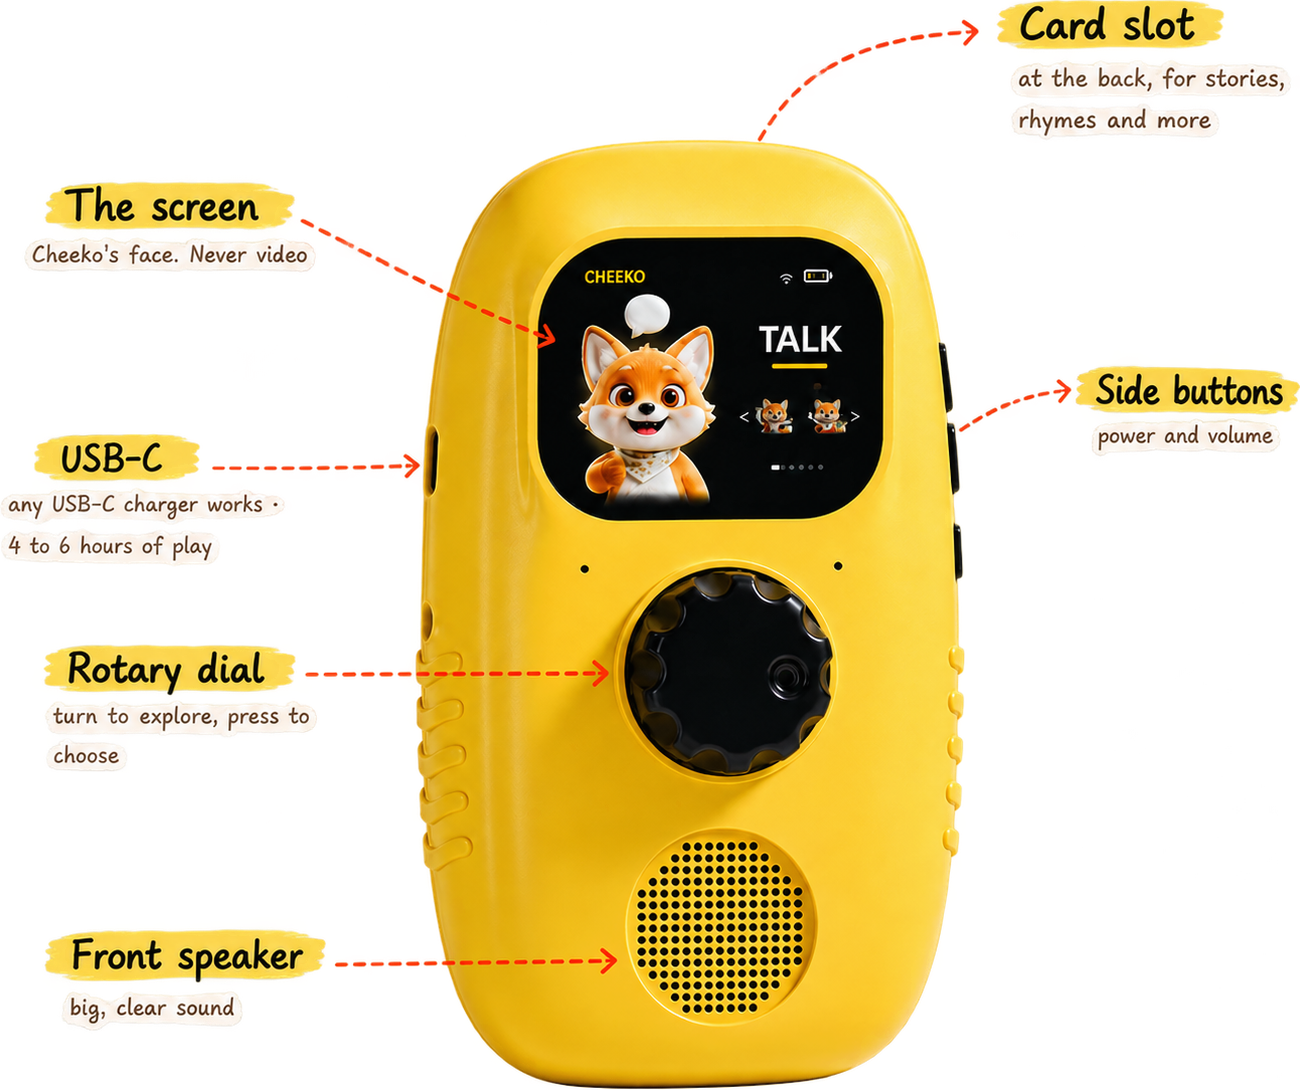
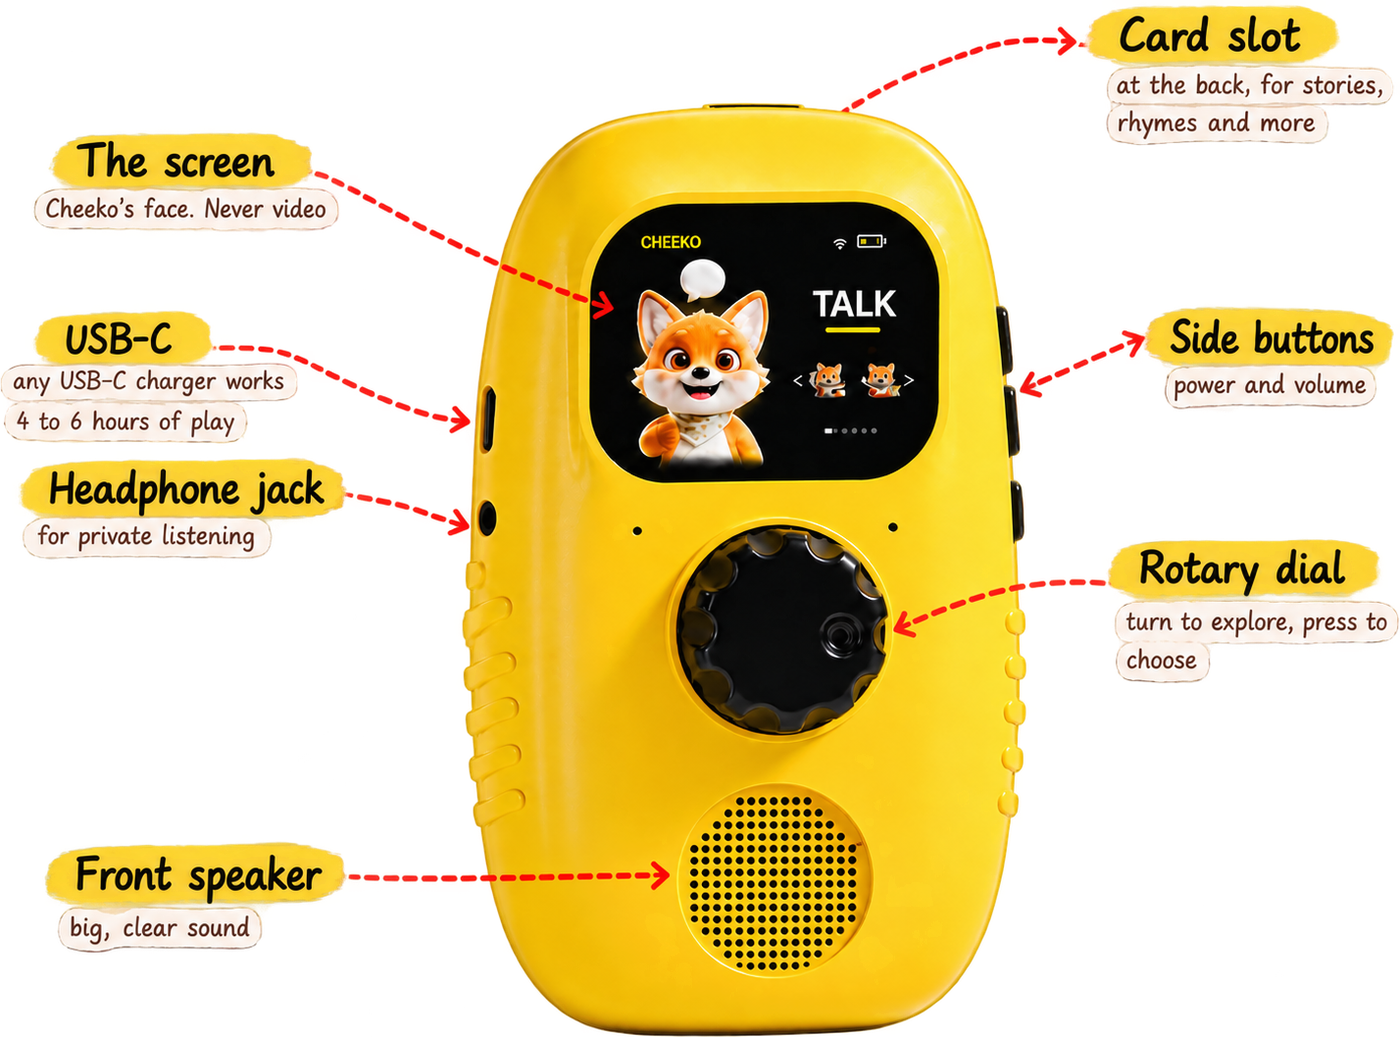
Meet the device uses the founder's new artwork, now including the headphone jack

diff --git a/index.html b/index.html
@@ -118,7 +118,7 @@
         <h2 class="disp">Meet the device.</h2>
       </div>
       <div class="devmap">
-        <img class="dev" src="assets/img/live/device-annotated.png" alt="The Cheeko device with its parts labelled: the screen, card slot at the back, rotary dial, front speaker, side buttons for power and volume, and USB-C charging" loading="lazy" />
+        <img class="dev" src="assets/img/live/device-annotated.png?v=2" alt="The Cheeko device with its parts labelled: the screen, card slot at the back, rotary dial, front speaker, side buttons for power and volume, a headphone jack for private listening, and USB-C charging" loading="lazy" />
       </div>
       
     </div>
